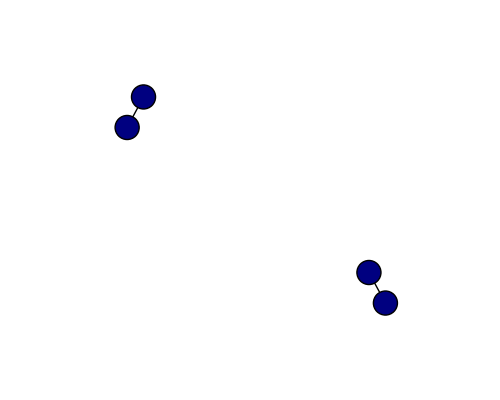
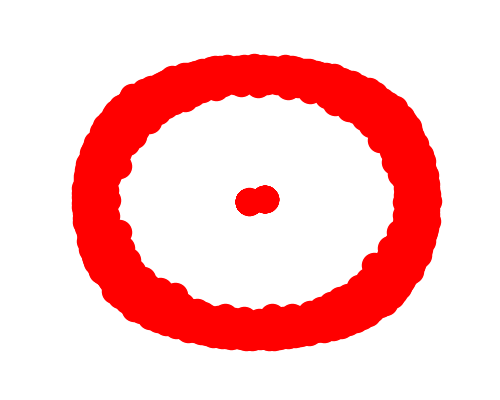
got database and front end integrated

Changed region(s): [[0.12, 0.12, 0.9, 0.9], [0.45, 0.45, 0.57, 0.54]]

diff --git a/templates/index.html b/templates/index.html
@@ -39,7 +39,7 @@
 
         <div>{{ badGuys }} </div>
         <div id="fig01">
-          <img src="../static/graph.png" alt="Image Placeholder"></div>
+          <img src="./static/graph.png" alt="Image Placeholder"></div>
       </header>
 </body>
 </html>

diff --git a/graphtest.py b/graphtest.py
@@ -3,7 +3,17 @@ from pprint import pprint
 import string
 from math import exp
 import numpy as np
+import pymongo
+from pymongo import MongoClient
+import csv
 G = nx.Graph()
+
+client = MongoClient('localhost', 27017)
+db = client.YHack
+actualCorporations = db.ActualCorporations
+courtCases = db.CourtCases
+investors = db.Investors
+bannedBrokers = db.BannedBrokers
 
 CORP_PENALTY_STEP = 0.1 #Suspicion points
 pplDict = {}
@@ -35,8 +45,11 @@ class Person:
         return self.empHistory
 
     def getFactor(self):
-        corpFactor = self.factor + corpDict[self.currentEmp].getFactor()
-        return min(1, corpFactor)
+        if (self.currentEmp in corpDict):
+            corpFactor = self.factor + corpDict[self.currentEmp].getFactor()
+        else:
+            corpFactor = 1
+        return max(0., min(1., corpFactor))
 
 class Corporation:
     def __init__(self, corpId, corpName, city, factor):
@@ -56,7 +69,10 @@ class Corporation:
         return self.factor
 
 def computeNodes():
-    #Adding the banned brokers to our network
+    temp = bannedBrokers.find({}, {"_id": False}, 0, 100)
+    bannedPpl = []
+    for bb in temp:
+        bannedPpl.append(bb['Individual Name'])
     for person in bannedPpl:
         G.add_node(person)
         #temporary measure:
@@ -70,35 +86,43 @@ def computeNodes():
             pplDict[person] = Person(12, person.split(' ')[0], ' '.join(person.split(' ')[1:]), 'Succ it', 1)
 
 
-    iapd = {} #populate with iapd values
+    temp4 = investors.find({}, {"_id": False}, 0, 100)
+    iapd = []
+    for i in temp4:
+        iapd.append(i)
     iapdPerson = None
 
     #Add corporations to the dictionary
-
-    #TEMPS:
-    corp1 = {'id': 123, 'name':'Succ it', 'city': 'NEW YORK'}
-    corp2 = {'id': 456, 'name':'Eat it', 'city': 'NEW YORK'}
-    corps = {} #Populate with corps values
-    corps['Succ it'] = corp1
-    corps['Eat it'] = corp2
-    #END TEMPS
-
-    courtDates = {} #Populate w/ court jsons
+    temp2 = actualCorporations.find({})
+    corps = []
+    for c in temp2:
+        corps.append(c)
+    temp3 = courtCases.find({}, {"_id": False}, 0, 100)
+    courtDates = []
+    for cc in temp3:
+        courtDates.append(cc)
     for corp in corps:
-        print(corps[corp])
-        corpDict[corp] = Corporation(corps[corp]['id'], corps[corp]['name'], corps[corp]['city'], 0)
+        corpDict[corp['DOS Process Name']] = Corporation(corp['DOS ID'], corp['DOS Process Name'], corp['DOS Process City'], 0)
         for courts in courtDates:
             #Putting the corp name into slug format found in json
-            if (courts.slug.split('-v-')[1] == '-'.join(corp.name.split(' ')).lower()):
-                #If the corp was a defendent, it sounds... sketch af
-                corpDict[corp].addCourtCitation(courts.citation_id)
+            if (len(courts['slug']) > 1 and courts['slug'].find('-v-') != -1):
+                if (courts['slug'].split('-v-')[1] == '-'.join(corp['DOS Process Name'].split(' ')).lower()):
+                    #If the corp was a defendent, it sounds... sketch af
+                    corpDict[corp['DOS Process Name']].addCourtCitation(courts['citation_id'])
 
     #Adding everybody as a node in the network
     for person in iapd:
-        iapdPerson = Person(person.indvlPK, person.firstNm, person.lastNm, corps[person.CrntEmp.orgNm], 0)
-        for corp in person.empHs:
-            iapdPerson.addToEmployeeHistory(corp.orgNm, corp.fromDt)
-        name = (person.firstNm + ' ' + person.lastNm).upper()
+        if (len(person['currentEmployment']) == 0):
+            iapdPerson = Person(person['indvlPK'], person['firstNm'], person['lastNm'], "unknown", 0)
+        elif (person['currentEmployment'][0]['orgNm'] in corpDict):
+            iapdPerson = Person(person['indvlPK'], person['firstNm'], person['lastNm'], corpDict[person['currentEmployment'][0]['orgNm']].__dict__['corpName'], 0)
+        else:
+            iapdPerson = Person(person['indvlPK'], person['firstNm'], person['lastNm'], "unknown", 0)
+        if (len(person['employmentHistory']) != 0):
+            for corp in person['employmentHistory']:
+                if (corp['orgNm'] in corpDict):
+                    iapdPerson.addToEmployeeHistory(corp['orgNm'], corp['fromDt'])
+        name = (person['firstNm'] + ' ' + person['lastNm']).upper()
         pplDict[name] = iapdPerson
         G.add_node(iapdPerson)
 
@@ -109,7 +133,7 @@ def computeNodes():
 
     # Assume suspicion is initialized somewhere as a dictionary of nodes to float
     suspicion = list(G.nodes())
-
+    print("Entering the danger zone")
     for person in pplDict.values():
         for otherPerson in pplDict.values():
             if (otherPerson != person):
@@ -160,5 +184,3 @@ def computeNodes():
     # Dictionary of visitedness: node as key
 
     return G
-
-computeNodes()

diff --git a/RESTapis.py b/RESTapis.py
@@ -13,14 +13,15 @@ from graphtest import computeNodes, pplDict, bannedPpl
 @app.route('/')
 def main():
 	G = computeNodes()
-	badGuys = [ppl.getName() for ppl in pplDict.values() if ppl.getName() not in bannedPpl]
+	badGuys = [ppl.getName() for ppl in pplDict.values() if ppl.getName() not in bannedPpl and ppl.getFactor() > 0.70]
 	G = computeNodes()
 	plt.plot(121)
 	f = plt.figure(figsize=(5,4))
 	a = f.add_subplot(111)
 	plt.axis('off')
-	nx.draw(G, node_color=[ppl.getFactor() for ppl in pplDict.values()], font_weight='bold')
-	plt.savefig('./templates/graph.png')
+	#nx.draw(G, node_color=[ppl.getFactor() for ppl in pplDict.values()], font_weight='bold')
+	nx.draw(G, font_weight='bold')
+	plt.savefig('./static/graph.png')
 	return render_template('index.html', badGuys=badGuys)
 
 @app.route('/images/<whatever>')
